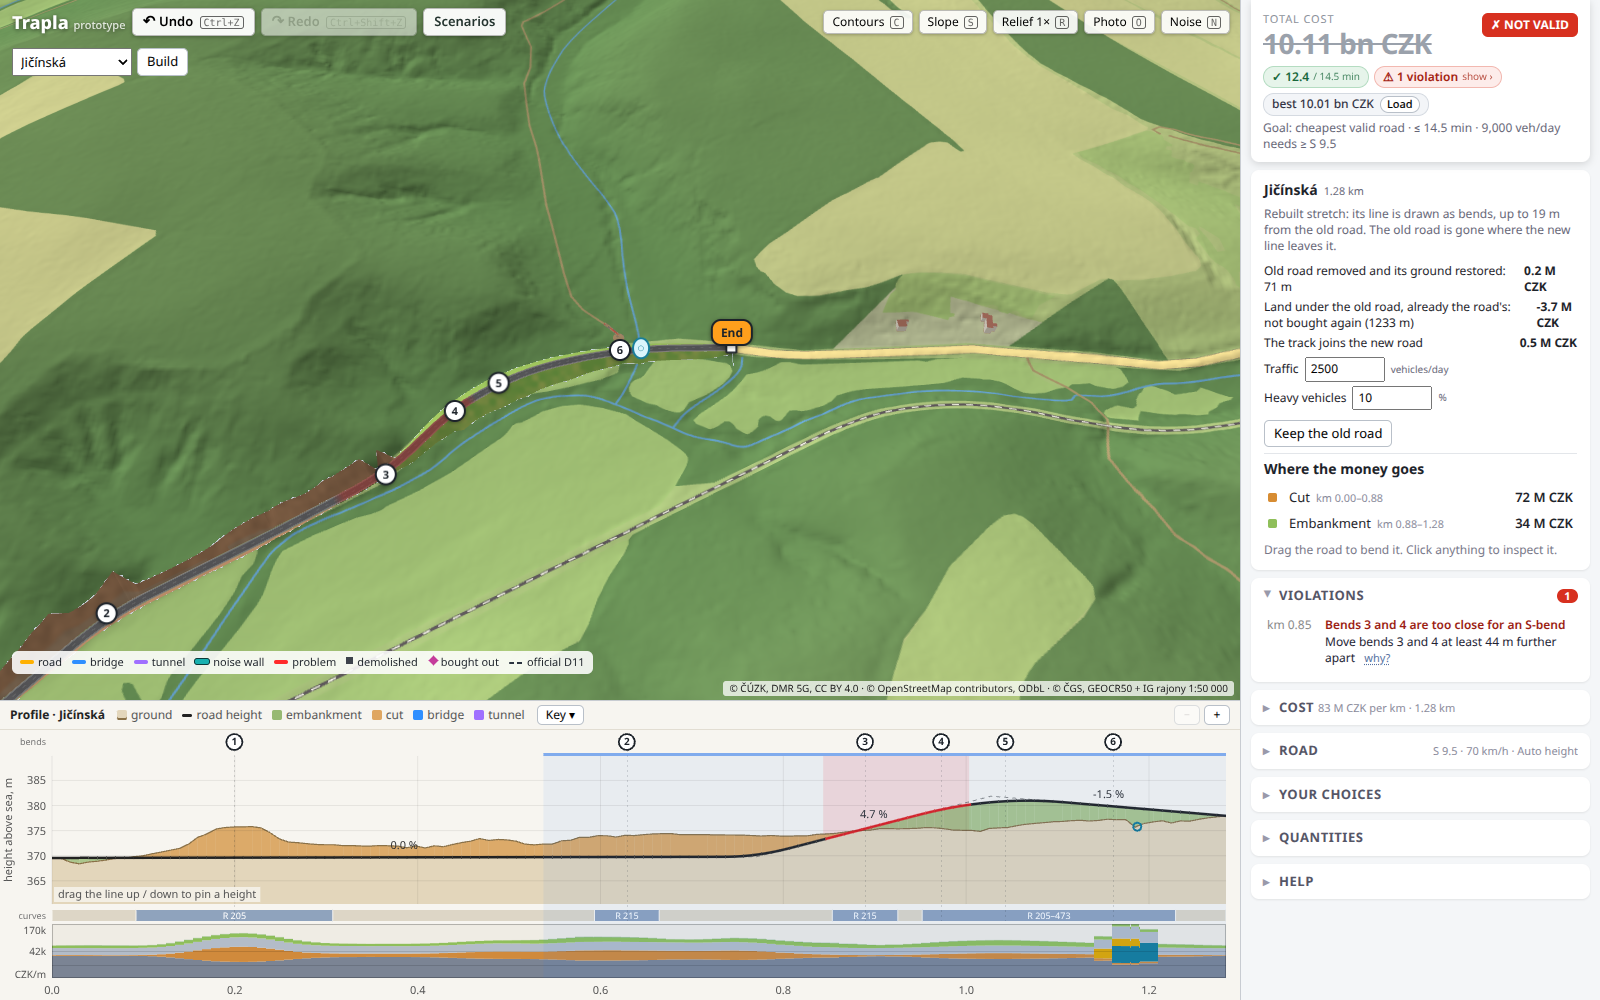
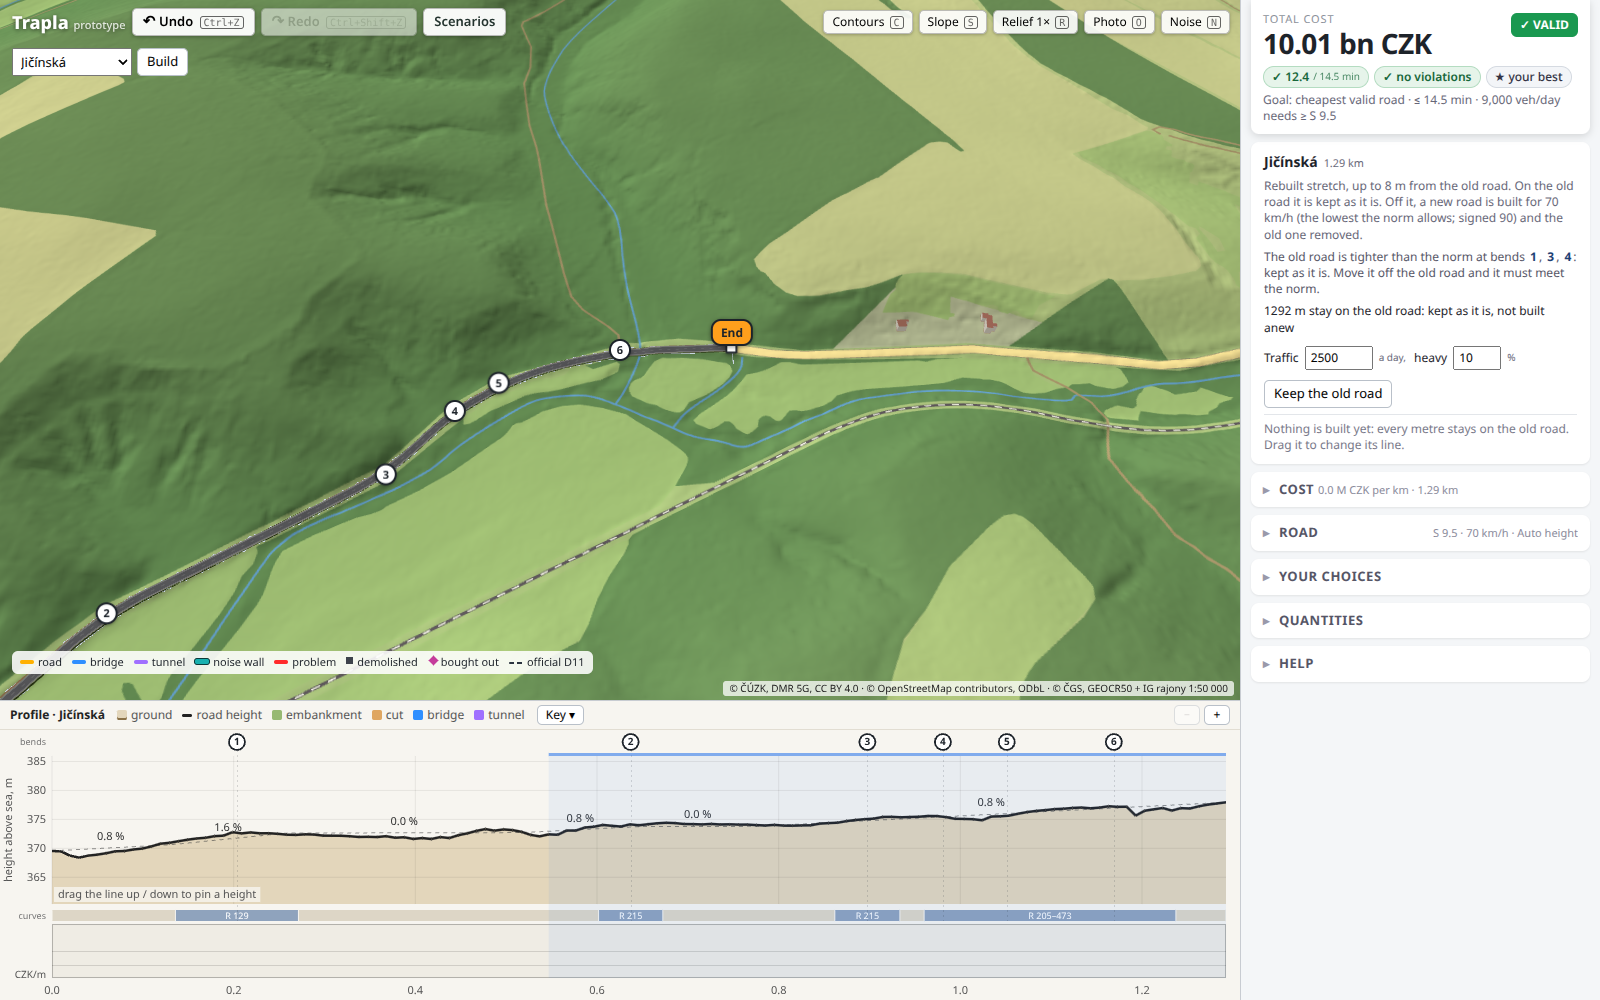
After the parent's answers: side roads' findings and crossing card say "this road" ("our road" there is the mission road); merged bends are never put where almost parallel legs meet far away (a 365 m spike on D3 III/11431), and lengthening a stretch converts the new piece like the first drag; land-s

diff --git a/src/ui/road-edit.ts b/src/ui/road-edit.ts
@@ -98,9 +98,16 @@ export function fitBends(path: readonly { x: number; y: number; s: number }[], t
     if (m === k) out.push({ x: kept[k].x, y: kept[k].y, r: null });
     else {
       const p = kept[k - 1], q = kept[k], u = kept[m], v = kept[m + 1];
+      // …where that is the corner the cluster rounds off: ahead of q on the leg coming in, before u on the
+      // leg going out, and no further from them than the cluster is long. Legs that run almost parallel
+      // (an S-shaped jog) or apart meet far away or behind: such a point would fold the line into a spike
+      // (D3 III/11431: a bend 365 m off the road). Then the cluster's middle point stands for it.
       const hit = intersect(p, q, u, v);
-      const far = hit && [p, v].every(e => Math.hypot(hit.x - e.x, hit.y - e.y) < 4 * (v.s - p.s));
-      out.push(far ? { ...hit!, r: null } : { x: kept[Math.round((k + m) / 2)].x, y: kept[Math.round((k + m) / 2)].y, r: null });
+      const along = (a: { x: number; y: number }, b: { x: number; y: number }, h: { x: number; y: number }) =>
+        ((h.x - a.x) * (b.x - a.x) + (h.y - a.y) * (b.y - a.y)) / ((b.x - a.x) ** 2 + (b.y - a.y) ** 2 || 1);
+      const corner = hit && along(p, q, hit) >= 1 - 1e-9 && along(v, u, hit) >= 1 - 1e-9
+        && Math.hypot(hit.x - q.x, hit.y - q.y) + Math.hypot(hit.x - u.x, hit.y - u.y) <= 3 * (u.s - q.s);
+      out.push(corner ? { ...hit!, r: null } : { x: kept[Math.round((k + m) / 2)].x, y: kept[Math.round((k + m) / 2)].y, r: null });
     }
     k = m + 1;
   }
@@ -296,7 +303,14 @@ export function moveStretchEnds(base: ProjectTransportIndex, project: ProjectDes
   if (fresh.id !== route.id) throw new Error('Promotion must keep the route');
   const wide = base.path({ ...old, s0: Math.min(s0, old.s0), s1: Math.max(s1, old.s1) });
   const kept = route.alignment.pis.filter(p => { const s = nearestStation(wide, p); return s > s0 + 1 && s < s1 - 1; });
-  const added = (from: number, to: number) => to - from > 1 ? fitBends(base.path({ ...old, s0: from, s1: to })) : [];
+  // (a newly included piece of old road is converted as the first drag converts the stretch: sharp old
+  // corners keep their own curve, so lengthening the stretch builds nothing anew either)
+  const category = route.kind === 'road' && route.specification.crossSection !== 'existing' ? route.specification.crossSection as CategoryId : null;
+  const added = (from: number, to: number): PI[] => {
+    if (!(to - from > 1)) return [];
+    const path = base.path({ ...old, s0: from, s1: to });
+    return category ? fitRoad(path[0], path[path.length - 1], path, route.specification.designSpeed, category) : fitBends(path);
+  };
   // bends of the newly included old road at either end, then the kept ones, in order along the road
   const head = s0 < old.s0 ? added(s0, old.s0) : [], tail = s1 > old.s1 ? added(old.s1, s1) : [];
   const joinHead = s0 < old.s0 ? [{ ...base.position(old.sourceId, old.s0)!, r: null }] : [];

diff --git a/scripts/land-screen-check.ts b/scripts/land-screen-check.ts
@@ -1,0 +1,31 @@
+// Is the multi-road land screen (core/project-ledger.ts `envelope`) still conservative? It takes a road's
+// land to reach, from the centreline, to the further slope edge on earthworks and the deck's whole width
+// on a bridge. This checks on real designs that nothing the road's own bill pays for along the line lies
+// beyond that: the land take billed per cell (cell.width) is never wider than the two slope edges together,
+// and every retaining wall stands inside the reach. (Crossing works, relocated roads and channels, links,
+// removed old roads and houses are screened separately, by their own geometry or as shared houses.)
+//   npx tsx scripts/land-screen-check.ts scripts/*-design.json      (SCENARIO=<id> for another pack's straight line)
+import { readFileSync } from 'node:fs';
+import { CATEGORIES } from '../src/core/data/categories';
+import { evaluate, type Design, type EvalContext } from '../src/core/evaluate';
+import { KIND } from '../src/core/structures';
+import { startDesign } from '../src/state';
+import { loadPack } from './loadpack';
+
+const { meta, scenario, terrain, buildings, roads, junctions } = loadPack();
+const ctx: EvalContext = { terrain, scenario, a: { x: meta.A.xy[0], y: meta.A.xy[1] }, b: { x: meta.B.xy[0], y: meta.B.xy[1] }, buildings, roads, junctions };
+const designs: [string, Design][] = [['straight', { ...startDesign(), ...structuredClone(scenario.initial ?? {}) } as Design],
+  ...process.argv.slice(2).map((f): [string, Design] => [f, JSON.parse(readFileSync(f, 'utf8')).design])];
+let bad = 0;
+for (const [name, d] of designs) {
+  const r = evaluate(ctx, d), half = CATEGORIES[d.category].crownWidth / 2;
+  const reach = (i: number) => r.kind[i] === KIND.earth ? Math.max(half, Math.abs(r.dayL[i]), Math.abs(r.dayR[i])) : Math.max(half, r.cell.width[i]);
+  let wide = 0, wall = 0, earth = 0;
+  for (let i = 0; i < r.n; i++) if (r.kind[i] === KIND.earth) { earth++; wide = Math.max(wide, r.cell.width[i] - (r.dayL[i] + r.dayR[i])); }
+  for (const w of r.retainingWalls) wall = Math.max(wall, Math.abs(w.offset) - reach(w.i));
+  const ok = wide <= 1e-6 && wall <= 1e-6;
+  if (!ok) bad++;
+  console.log(`${ok ? 'OK  ' : 'FAIL'} ${name}: ${r.n} cells (${earth} on earthworks); billed land wider than the two slope edges by ${wide.toFixed(3)} m at most; `
+    + `${r.retainingWalls.length} retaining walls, beyond the reach by ${Math.max(0, wall).toFixed(3)} m at most`);
+}
+if (bad) { console.error(`${bad} design(s) build or buy beyond the screen's reach`); process.exit(1); }

diff --git a/src/ui/inspector.ts b/src/ui/inspector.ts
@@ -5,7 +5,7 @@
 import type { Violation } from '../core/checks';
 import { crossingChoice, crossingVia, type CrossingChoice } from '../core/crossings';
 import { shapeable } from './link-shape';
-import { CROSSING_CHOICE_TEXT, crossingOutcome, MOTORWAY_AUTOMATIC } from '../core/terms';
+import { CROSSING_CHOICE_TEXT, crossingOutcome, MOTORWAY_AUTOMATIC, thisRoadWords } from '../core/terms';
 import { CATEGORIES } from '../core/data/categories';
 import { speedNorms } from '../core/data/norms';
 import { BUILDING_KINDS, NOISE, ROAD_CLASSES } from '../core/data/urban';
@@ -84,6 +84,9 @@ export class Inspector {
   private networkPending = false;
   /** The active road's own settings, shown above every card of that road (null: none, e.g. our road). */
   routeHead?: () => HTMLElement | null;
+  /** The active road is not ours (a rebuilt or new side road): its crossing card says "this road" where
+   * the shared vocabulary says "our road" (core/terms.ts thisRoadWords). */
+  isSideRoad?: () => boolean;
   setNetworkPending(pending: boolean) { this.networkPending = pending; this.render(); }
   private pending = false;
 
@@ -385,11 +388,12 @@ export class Inspector {
     const rel = `our road ${Math.abs(c.h).toFixed(0)} m ${c.h >= 0 ? 'above' : 'below'} it`, outcome = crossingOutcome(c);
     // a new road of the project is bridged, carried over us or met, never cut and rerouted
     const options = (CATEGORIES[d.category].gradeSeparated ? MOTORWAY_CROSSING_OPTIONS : CROSSING_OPTIONS).filter(([v]) => !c.designed || v !== 'reconnection');
-    return `${this.head(c.crossedRoute ? esc(c.crossedRoute.name) : cap(ROAD_CLASSES[c.cls].label), `km ${km(c.s)}${all.length > 1 ? ` · crossed ${all.length}×` : ''}`, nav)}
+    const body = `
       <div class="ctx-state"><b>${esc(outcome.label)}${cost > 0 ? ` · ${czk(cost)}` : ''}</b><div class="why">${esc(outcome.explain)}</div><div class="why">${rel}${choice ? ' · your choice' : ''}</div></div>
       ${this.issues(vio)}
       ${this.linkPath(c, d)}
       ${this.choices('crossing-choice', 'data-crossing', options, choice)}`;
+    return `${this.head(c.crossedRoute ? esc(c.crossedRoute.name) : cap(ROAD_CLASSES[c.cls].label), `km ${km(c.s)}${all.length > 1 ? ` · crossed ${all.length}×` : ''}`, nav)}${this.isSideRoad?.() ? thisRoadWords(body) : body}`;
   }
   /** a reroute's path: drag it on the map; once shaped, one button takes it back to Automatic */
   private linkPath(c: Result['crossings'][number], d: Design) {

diff --git a/src/core/project-evaluate.ts b/src/core/project-evaluate.ts
@@ -20,6 +20,7 @@ import { draws, editedNetwork, lineStation, planEnds, planLine, registerNet, typ
 import type { CrossingResult } from './crossings';
 import { CROSSING_RULES } from './data/urban';
 import { STEP, type EvalOptions } from './evaluate';
+import { thisRoadWords } from './terms';
 
 export interface ProjectEvalContext { legacy: EvalContext; environment: ProjectEnvironment; sourceWays?: SourceWays;
   /** Combined noise of several roads (C1 c): answers each road's per-storey energy at a house from its
@@ -99,9 +100,13 @@ function routeProposal(ctx: ProjectEvalContext, snapshot: ProjectSnapshot, route
     ...(ends ? { ends } : {}), ...(holds?.length ? { holds } : {}), ...(endsOf ? { endsOf } : {}) });
   const road = route.kind === 'road' && !corridor && evaluated.status === 'evaluated' ? evaluated as Extract<ReturnType<typeof evaluateProjectRoad>, { status: 'evaluated' }> : null;
   const legacy = evaluated.status === 'evaluated' ? evaluated.result : evaluated.status === 'split' ? evaluated.results[route.id] : undefined;
-  // the kernel names the mission's ends A and B; every other road's card and map say its start and end
-  if (legacy && route.role !== 'mission') for (const v of [...legacy.violations, ...legacy.inherited ?? []]) {
-    v.title = endWords(route, v.title); v.fix = endWords(route, v.fix); if (v.detail) v.detail = endWords(route, v.detail);
+  // the kernel names the mission's ends A and B and calls the designed road "our road"; every other road's
+  // card and map say its start and end, and "this road" ("our road" there is the mission road)
+  if (legacy && route.role !== 'mission') {
+    const own = (text: string) => thisRoadWords(endWords(route, text));
+    for (const v of new Set([...legacy.violations, ...legacy.inherited ?? [], ...legacy.crossings.flatMap(c => c.issues ?? [])])) {
+      v.title = own(v.title); v.fix = own(v.fix); if (v.detail) v.detail = own(v.detail);
+    }
   }
   return { route: { routeId: route.id, revision: route.revision,
     engineeringRevision: `${snapshot.epoch}:${snapshot.revision}:${route.revision}:${preview ? 'preview' : 'full'}`,

diff --git a/tests/road-edit.test.ts b/tests/road-edit.test.ts
@@ -168,6 +168,23 @@ describe('rebuilding a mapped road', () => {
     expect(lowered[50]).toBe(0); expect(lowered[50 + Math.ceil((3 / 0.06 + HELD_APPROACH) / 10) + 1]).toBe(1);
   });
 
+  it('never puts a bend far off the old road where close bends are merged (a jog between almost parallel legs)', () => {
+    // east, a 30 m jog to the north within 60 m, east again; the outer legs are almost parallel and
+    // would meet 1.5 km away
+    const pts = [[0, 0], [400, 0], [430, 15], [460, 30], [900, 39]];
+    let s = 0;
+    const path = pts.map(([x, y], i) => { if (i) s += Math.hypot(x - pts[i - 1][0], y - pts[i - 1][1]); return { x, y, s }; });
+    const pis = fitBends(path);
+    expect(pis.length).toBeGreaterThan(0);
+    expect(strayDistance(pis, path)).toBeLessThan(1);
+    // a rounded right-angle corner is still one bend at the corner point itself
+    const corner = [[0, 0], [400, 0], [420, 5], [435, 20], [440, 40], [440, 500]];
+    s = 0;
+    const round = corner.map(([x, y], i) => { if (i) s += Math.hypot(x - corner[i - 1][0], y - corner[i - 1][1]); return { x, y, s }; });
+    const one = fitBends(round, 3);
+    expect(one).toHaveLength(1); expect(one[0].x).toBeCloseTo(440, 6); expect(one[0].y).toBeCloseTo(0, 6);
+  });
+
   it('names mapped roads as Czech maps do', () => {
     expect(mappedRoadName({ highway: 'tertiary', ref: '1057' })).toBe('road III/1057');
     expect(mappedRoadName({ highway: 'primary', ref: '14;16' })).toBe('road I/14 and I/16');

diff --git a/tests/edited-network.test.ts b/tests/edited-network.test.ts
@@ -231,3 +231,14 @@ it('a side road\'s problems name its start and end, never the mission\'s A and B
   expect(texts.some(t => /its start/.test(t))).toBe(true);
   expect(texts.filter(t => /\b(to|from|near|at|and|of|before|after) [AB]\b/.test(t))).toEqual([]);
 });
+
+it('what the kernel says about a side road reads "this road": "our road" there is the mission road', async () => {
+  const { thisRoadWords } = await import('../src/core/terms');
+  expect(thisRoadWords('Ramps up to the bridge over our road would be longer than 250 m')).toBe('Ramps up to the bridge over this road would be longer than 250 m');
+  expect(thisRoadWords('Lower our road here (a cutting makes the ramps shorter), or choose "Our bridge over it", an underpass or "Cut and reroute"'))
+    .toBe('Lower this road here (a cutting makes the ramps shorter), or choose "This road’s bridge over it", an underpass or "Cut and reroute"');
+  expect(thisRoadWords('Our earthworks cover 14 m of a track')).toBe('This road’s earthworks cover 14 m of a track');
+  expect(thisRoadWords('Its bridge over us')).toBe('Its bridge over this road');
+  expect(thisRoadWords('The crossed road meets ours at the same level; four hours of your time')).toBe('The crossed road meets this road at the same level; four hours of your time');
+  expect(thisRoadWords(thisRoadWords('Our road crosses over the crossed road'))).toBe('This road crosses over the crossed road');
+});

diff --git a/src/core/terms.ts b/src/core/terms.ts
@@ -198,3 +198,12 @@ export function mappedRoadName(tags: { highway?: string; ref?: string; name?: st
 }
 /** Does that name already say the road's class (so a card need not repeat it)? */
 export const namedByNumber = (tags: { highway?: string; ref?: string; name?: string } | undefined) => !tags?.name && !!tags?.ref && !!NUMBERED[tags.highway ?? ''];
+
+/** The kernel words everything from the designed road's side ("our road", "our earthworks", "Its bridge
+ * over us"). On a road that is not ours (a rebuilt or new side road) "our road" is the mission road, so
+ * what the kernel says about the road being designed reads "this road" there. */
+export function thisRoadWords(text: string): string {
+  return text.replace(/\bOur road\b/g, 'This road').replace(/\bour road\b/g, 'this road').replace(/\bours\b/g, 'this road')
+    .replace(/\b(over|under|above|below|beside|across|to|from) us\b/g, '$1 this road')
+    .replace(/\bOur (?=\w)/g, 'This road’s ').replace(/\bour (?=\w)/g, 'this road’s ');
+}

diff --git a/tests/geometry.test.ts b/tests/geometry.test.ts
@@ -252,7 +252,8 @@ describe('compound curves', () => {
       for (const c of al.curves) if (c.unit >= 0) expect(c.rEff).toBeGreaterThanOrEqual(355 - 1e-6);
       if (t % 10 === 0) expectG1(al, a, b);
     }
-  });
+  // (300 random cases take about 5 s on their own: the default 5 s limit failed whenever the machine was busy)
+  }, 20_000);
 
   it('uneven legs: tangency to the inner legs is relaxed just enough for the radius rules', () => {
     // equal 6° turns on legs of 150, 120, 180, 110 m: arcs meeting exactly on the legs would need radii 5 : 1

diff --git a/src/main.ts b/src/main.ts
@@ -375,6 +375,7 @@ async function main() {
   /** A side road's own settings, above whatever is selected on it: what it is, its traffic, its junctions
    * and works, and how to undo it. */
   let strayKey = '', stray = 0;
+  inspector.isSideRoad = () => !!store.route && store.route.role !== 'mission';
   inspector.routeHead = () => {
     const route = store.route, r = last;
     if (!route || route.role === 'mission' || route.kind !== 'road' || !r) return null;

diff --git a/docs/any-road-editing.md b/docs/any-road-editing.md
@@ -494,3 +494,42 @@ cells; (P2) the census sidecar is taken only with finite numbers. **Open for the
 changed (kept parts, 125 m knots), so `COST_MODEL_VERSION` must be bumped (main's + 1) or saved bests of
 multi-road projects show a cost their design no longer evaluates to. `tests/geometry.test.ts` "the acceptance
 case…" takes 4.9 s alone and can exceed its 5 s limit when the host load is above ~15 (not touched here).
+
+## 12. After the parent's answers (2026-11-16, second pass)
+
+- **drag-perf** `--gpu --check` bend, road, radius, pin, vpi, link: all OK on `9f1191f` (04:15, load 2–4;
+  `/tmp/gate-perf-<mode>.log`). Nothing after it touches a drag of the mission road.
+- **Land screen, how it was verified** (parent: "OK if it's still conservative"): `scripts/land-screen-check.ts`
+  on the straight line and the five saved D11 designs and on D3's straight line: the land billed per cell is
+  never wider than the two slope edges together (it is exactly `dayL + dayR`), and all 62–152 retaining walls
+  per design stand inside the reach (0.000 m beyond). What is not along the line is screened by its own
+  geometry (crossing works, relocated roads and channels, links, removed old roads) or as a shared house
+  (`shared-building`, unchanged); `tests/project-ledger.test.ts` pins the boundary (10 m clearance between slope
+  edges: independent; 3 m closer: shared, with the place and the metres).
+- **12 m, not 15 m**: `REPAIR_TOLERANCE` is `KEPT_TOLERANCE` on purpose. The automatic conversion may move the
+  line only as far as still counts as "on the old road"; at 15 m a repaired bend could itself become a
+  built-anew part with its own bill and norm checks, which the player never asked for.
+- **"This road"** (`core/terms.ts` `thisRoadWords`): what the kernel says about a side road (its violations,
+  its crossings' findings and its crossing card) reads "this road", "this road’s earthworks", "This road’s
+  bridge over it", "Its bridge over this road"; "our road" on a side road's card is the mission road only
+  (junction works, held crossings).
+- **`fitBends`** no longer puts a merged bend where two almost parallel legs meet far away (D3 III/11431: a
+  bend 365 m off the road, a 174° spike, after its End handle was moved): only a real corner of the cluster,
+  else its middle point. **Lengthening a stretch** converts the newly included old road like the first drag
+  does (`fitRoad`: sharp old corners keep their own curve).
+- `tests/geometry.test.ts` acceptance case: 20 s limit (it takes 5 s alone).
+- Screenshot 104 regenerated (D11 Jičínská, kept on the ground, VALID) and linked from the README again.
+- vitest 621, tsc, eval-regression (11 bit-identical), any-road-scene D11 + D3, owner-d3-scene: PASS.
+
+**Still open**
+- **G** (combined noise): wire `ProjectEvalContext.combinedNoise` (`project-evaluate.ts`, `combineNoise`, tested
+  with a synthetic decider since d494ea7) to the finite-segment source of noise-walls-seams once it is in main
+  (not in 217cfa4). Then the owner's D3 case has a total as soon as the new line keeps 10 m from our
+  embankment's foot.
+- **Lengthening a stretch into sharp old corners can still build anew**: the old end, now inside the stretch,
+  becomes a bend with a norm-sized curve (`moveStretchEnds` `joinHead` / `joinTail`, `r: null`), which leaves the
+  old road in a village corner (D3 III/11431 End handle +120 m: "Bends 5 and 6 merge into one curve that is
+  too sharp", houses under the new curve). Fix idea: refit the old road between the last bend the player has
+  not moved and the new end with `fitRoad`, instead of adding the join point.
+- `COST_MODEL_VERSION` + 1 at merge (multi-road totals changed); `traffic.json` in the main checkout (§11).
+- Known limits of §10 (Quantities on kept cells, By-hand heights on a kept part).

diff --git a/README.md b/README.md
@@ -246,7 +246,8 @@ joins it with a junction (Auto: a T, or a roundabout). See [docs/any-road-editin
 Also: [road III/1057 selected](docs/screenshots/106-d3-road-1057-selected.png), [its card with a bend
 selected](docs/screenshots/108-d3-road-1057-card.png), [Build → Road: where a click would put the end, and how
 long the road would be](docs/screenshots/109-build-road-placing.png) (`node scripts/owner-d3-scene.mjs --docs`),
-[a new road with a free end](docs/screenshots/102-new-road-built.png), [the photo with the mapped
+[D11: Jičínská after a small drag and a longer stretch, still on its old road: drawn on the ground, nothing
+built or billed](docs/screenshots/104-rebuilt-road-priced.png), [a new road with a free end](docs/screenshots/102-new-road-built.png), [the photo with the mapped
 roads](docs/screenshots/103-photo-mapped-roads.png); the earlier foundation views 79–83 are in `docs/multi-road-ux.md`.
 
 ### Physical crossings
